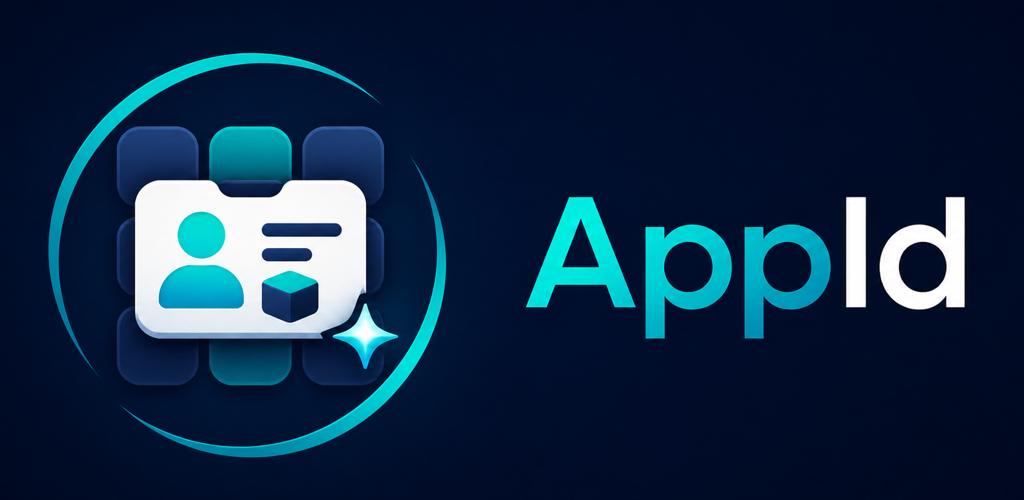
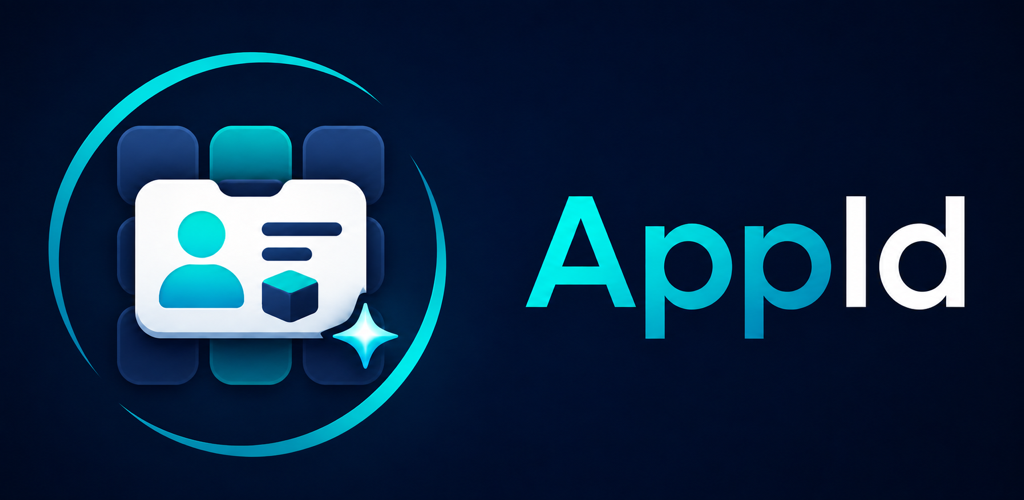
Refresh Play release materials and device checks

diff --git a/docs/PLAY_STORE.md b/docs/PLAY_STORE.md
@@ -58,6 +58,12 @@ inspect the reason/action form. To inspect generated APK management, open
 **APK library**. To inspect privacy and licensing information, open the top-right
 menu and select **Privacy policy** or **License**.
 
+App access declaration: AppId has no login, account, subscription, age gate, or
+restricted reviewer content. Every screen is available immediately after
+installation. Termux is an optional, separately installed companion used only
+when the reviewer wants to test environment setup or APK generation; the main
+installed-app inventory and replacement form remain usable without it.
+
 ## Data Safety draft
 
 - Data collected by AppId: **None**
@@ -74,19 +80,35 @@ the final uploaded artifact and Play Console form.
 
 ## Permission declarations
 
-- `QUERY_ALL_PACKAGES`: core functionality is the user-requested installed-app
-  and application-ID inventory. The declaration must explain why a narrower
-  package-query list cannot support this feature.
-- `PACKAGE_USAGE_STATS`: optional, user-granted access used only to show local
-  screen-time and occupied-storage information in Installed apps.
-- `REQUEST_INSTALL_PACKAGES`: core functionality is installing a generated
-  placeholder APK through Android's user-confirmed package installer. Confirm
-  eligibility under the current Play restricted-permission policy before upload;
-  the Play Console owner must make the final declaration.
-- `REQUEST_DELETE_PACKAGES`: used only to open Android's user-confirmed
-  uninstall flow for a generated placeholder.
-- `com.termux.permission.RUN_COMMAND`: used only to send explicit user-requested
-  setup/check/build commands to the separately installed Termux app.
+- `QUERY_ALL_PACKAGES` — core inventory functionality. After the user opens
+  Installed apps, AppId reads the installed package list so the user can choose
+  the app to replace and see its application ID. The inventory is not uploaded
+  or used for advertising. A narrow package-query declaration cannot support
+  this user-selected “show any installed app” workflow because the target is
+  not known in advance. Complete the Play Console package-visibility declaration
+  with this user-facing purpose and confirm that the selected policy category
+  permits it.
+- `PACKAGE_USAGE_STATS` — optional local diagnostics. Only after the user grants
+  Usage Access, AppId reads Android's locally available screen-time and occupied
+  storage values for the Installed apps view. The values help the user compare
+  habits and storage impact; they are not needed to create a placeholder and
+  never leave the device. Explain that the user can deny this access and retain
+  all core replacement features.
+- `REQUEST_INSTALL_PACKAGES` — user-selected placeholder installation. When the
+  user taps install for an APK that AppId generated, AppId starts Android's
+  package-installer confirmation flow. AppId does not silently install packages,
+  install third-party downloads, or install in the background. Confirm current
+  Google Play eligibility for this restricted permission before declaring it.
+- `REQUEST_DELETE_PACKAGES` — user-selected cleanup. When the user chooses to
+  remove a generated placeholder from APK library or Installed apps, AppId starts
+  Android's uninstall confirmation flow. It does not silently remove apps or
+  delete the original app that the user is replacing.
+- `com.termux.permission.RUN_COMMAND` — optional build integration. When the
+  user presses a setup, dependency-check, or build action, AppId sends that
+  explicit command to the separately installed Termux app. Termux performs the
+  build locally and AppId shows the returned status/log; AppId cannot execute
+  commands without the user's action and the Termux permission. Denying it
+  leaves the non-Termux screens available.
 
 These permissions do not mean AppId collects the associated information. The
 Data Safety answers describe data leaving the device, while the permission
@@ -96,7 +118,9 @@ declarations explain why Android access is needed.
 
 - 512×512 icon: `fastlane/metadata/android/en-US/images/icon.png`
 - 1024×500 feature graphic: `fastlane/metadata/android/en-US/images/featureGraphic.png`
-- Phone screenshots: `fastlane/metadata/android/en-US/images/phoneScreenshots/`
+- Phone screenshots (API 34, light and dark):
+  `fastlane/metadata/android/en-US/images/phoneScreenshots/`
+  (`1-home.png`, `2-setup.png`, `3-home-dark.png`, `4-setup-dark.png`)
 
 Capture fresh screenshots from the release candidate, including light and dark
 mode, before upload. Test or explicitly restrict tablet distribution.

diff --git a/tasks/google-play-release-readiness.md b/tasks/google-play-release-readiness.md
@@ -16,7 +16,8 @@ Task created from the release-preparation patterns used by `android-switchlog`,
 - [x] Add an explicit Play permission-rationale draft for package visibility,
       Usage Access, APK installation, uninstall confirmation, and Termux commands.
 - [ ] Complete Play Console Data Safety, App access, content rating, target audience,
-      account deletion, and permissions declarations.
+      account deletion, and permissions declarations using the expanded drafts in
+      `docs/PLAY_STORE.md`.
 - [ ] Verify that the listing, privacy policy, in-app notices, and uploaded artifact
       describe the same behavior.
 
@@ -24,8 +25,10 @@ Task created from the release-preparation patterns used by `android-switchlog`,
 
 - [x] Validate the 512×512 Play icon as a full-square, opaque, sRGB PNG without a
       baked Play mask or shadow.
-- [x] Validate the 1024×500 feature graphic.
-- [ ] Capture current light and dark phone screenshots on API 34+.
+- [x] Validate the 1024×500 feature graphic and refresh its embedded mark to match
+      the current launcher icon.
+- [x] Capture and visually verify current light and dark phone screenshots on API
+      34 (`22126RN91Y`); assets are under `fastlane/metadata/android/en-US/images/`.
 - [ ] Capture tablet screenshots or explicitly decide not to distribute to tablets.
 - [x] Prepare short description, full description, reviewer notes, and release notes.
 
@@ -45,6 +48,10 @@ Task created from the release-preparation patterns used by `android-switchlog`,
 - [x] Run `./gradlew testDebugUnitTest lintDebug lintRelease assembleDebug bundleRelease`.
 - [x] Run `git diff --check` and the Termux parity checker after asset changes.
 - [ ] Test the signed release on API 24 and API 35/36 devices.
+- [x] Smoke-test the debug release candidate on API 34 first and API 33 with
+      Termux; main, About, Privacy, License, Setup, APK library, and Installed apps
+      flows passed. API 34's no-Termux run also verified the documented optional
+      integration path and skipped only Termux-dependent controls.
 - [ ] Check light/dark mode, large fonts, TalkBack labels, rotation, edge-to-edge,
       keyboard behavior, and all destructive confirmations.
 - [ ] Test Termux setup, environment audit, placeholder build, APK install, and
